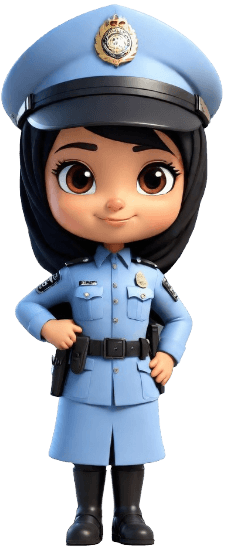
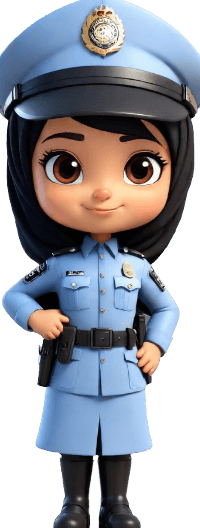
change girl image width and height

diff --git a/TouchScreenDemo/css/styles.css b/TouchScreenDemo/css/styles.css
@@ -258,7 +258,7 @@ body {
 }
 
 .character-btns img {
-  width: 60%;
+  width: 35%;
 }
 
 .character-btns {
